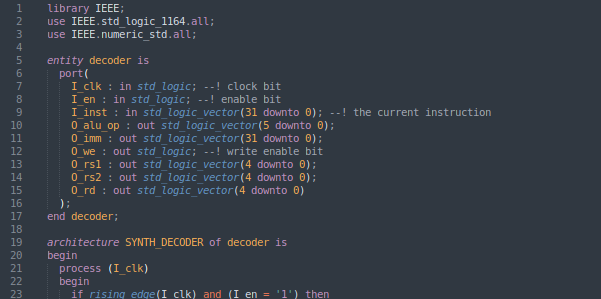
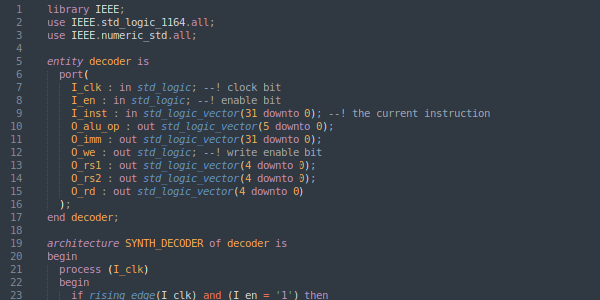
CompSci Degree Finished Update

diff --git a/index.html b/index.html
@@ -23,32 +23,32 @@
 		<h3 id="background-banner">Background Information:</h3>
 		<section id="about-me">
 			<img id="headshot" src='../src/main/resources/static/images/Kelli-Headshot.png' alt='My current headshot'/>
-			<p ID="background-info">I am a software engineer interested in optimization, communications, and making readable code. With my previous experience in academia, publishing, and community organizing I am a strong colloborator and an exceptional public speaker. When I'm not programming I like to draw, read, and play music.</p>
+			<p ID="background-info">I am a software engineer interested in backend, optimization, and making readable code. With my previous experience in academia, publishing, and community organizing I am a strong leader and an exceptional public speaker. When I'm not programming I like to draw, read, and play music.</p>
 		</section>
 		<section id="skills">
 			<div id="skill-list">
 				<button class="collapsible">Skills</button>
 				<ul class="content">
-					<li>Front-End Programming</li>
-					<li>Team Organization</li>
-					<li>Test Driven Design</li>
-					<li>Customer Communications</li>
-					<li>Spring</li>
+					<li>Linux maintenance</li>
 					<li>Git</li>
-					<li>Angular</li>
+					<li>Nginx</li>
+					<li>Nix</li>
+					<li>Test Driven Design</li>
+					<li>TTY interfaces</li>
 					<li>JSReact</li>
+					<li>Spring</li>
 				</ul>
 			</div>
 			<div id="language-list">
 				<button class="collapsible">Languages</button>
 				<ul class="content">
-					<li>C</li>
-					<li>JavaScript</li>
-					<li>PHP</li>
-					<li>VHDL</li>
-					<li>HTML5/CSS3</li>
 					<li>Python</li>
 					<li>C++</li>
+					<li>C</li>
+					<li>VHDL</li>
+					<li>JavaScript</li>
+					<li>PHP</li>
+					<li>HTML5/CSS3</li>
 					<li>Java</li>
 				</ul>
 			</div>
@@ -62,6 +62,7 @@
 				<a href="https://www.github.com/KelliMK/CRUD_Database_basic"><img class="finished-slides project-slides" src="../src/main/resources/static/images/crud_database_schema.png"></a>
 				<a href="../src/main/resources/static/screensaver.html"><img class="finished-slides project-slides" src="../src/main/resources/static/images/pico8_code.png"></a>
 				<a href="../src/main/resources/static/blob_game.html"><img class="finished-slides project-slides" src="../src/main/resources/static/images/game-screenshot.png"></a>
+				<a href="https://github.com/KelliMK/risc-v-kk"><img class="finished-slides project-slides" src="../src/main/resources/static/images/risc-v-kk.png"></a>
 			</div>
 			<div class="slide-text"><a id="slide-text-finished"></a></div>
 			<div id="finished-buttons-flexbox">
@@ -78,8 +79,8 @@
 
 		<section id="current-projects">
 			<div id="current-slides-flexbox">
+				<a href="https://github.com/KelliMK/my-nixos-server"><img class="current-slides project-slides" src="../src/main/resources/static/images/NixOS-Logo.png" ></a>
 				<a href="https://github.com/KelliMK/Nameless-Game"><img class="current-slides project-slides" src="../src/main/resources/static/images/nameless-screenshot.png" ></a>
-				<a href="https://github.com/KelliMK/risc-v-kk"><img class="current-slides project-slides" src="../src/main/resources/static/images/risc-v-kk.png"></a>
 			</div>
 			<div class="slide-text"><a id="slide-text-current"></a></div>
 			<div id="current-buttons-flexbox">

diff --git a/index.js b/index.js
@@ -42,31 +42,39 @@ function plusFinishedDivs(n) {
 }
 
 function showFinishedDescription(x, n) {
-	if (n % 4 == 1) {
+	if (n % 5 == 1) {
 		document.getElementById("slide-text-finished").innerHTML = "KKSharp";
 		if (x % 2 == 1) {
 			document.getElementById("finished-description").innerHTML = "<p class=\"description\">A programming language</p>";
 		} else if (x % 2 == 0) {
 			document.getElementById("finished-description").innerHTML = null;
 		}
-	} else if (n % 4 == 2) {
+	} else if (n % 5 == 2) {
 		document.getElementById("slide-text-finished").innerHTML = "CRUD Database Basic";
 		if (x % 2 == 1) {
 			document.getElementById("finished-description").innerHTML = "<p class=\"description\">A CRUD database built using MySQL and PHP. Cannot be instantiated in Github Pages.</p>";
 		} else if (x % 2 == 0) {
 			document.getElementById("finished-description").innerHTML = null;
 		}
-	} else if (n % 4 == 3) {
+	} else if (n % 5 == 3) {
 		document.getElementById("slide-text-finished").innerHTML = "Pico-8 Screensaver";
 		if (x % 2 == 1) {
 			document.getElementById("finished-description").innerHTML = "<p class=\"description\">A screensaver made with some trig. Built in Pico-8.</p>";
 		} else if (x % 2 == 0) {
 			document.getElementById("finished-description").innerHTML = null;
 		}
-	} else if (n % 4 == 0) {
+	} else if (n % 5 == 4) {
 		document.getElementById("slide-text-finished").innerHTML = "Simple Blob Game";
 		if (x % 2 == 1) {
 			document.getElementById("finished-description").innerHTML = "<p class=\"description\">A game where the player picks up some blobs and puts them in a fountain</p>";
+		} else if (x % 2 == 0) {
+			document.getElementById("finished-description").innerHTML = null;
+		}
+
+	} else if (n % 5 == 0) {
+		document.getElementById("slide-text-finished").innerHTML = "RISC-V-KK";
+		if (x % 2 == 1) {
+			document.getElementById("finished-description").innerHTML = "<p class=\"description\">A CPU built in VHDL that implements the RV32I ISA</p>";
 		} else if (x % 2 == 0) {
 			document.getElementById("finished-description").innerHTML = null;
 		}
@@ -104,9 +112,9 @@ function plusCurrentDivs(n) {
 
 function showCurrentDescription(x, n) {
 	if (n % 2 == 0) {
-		document.getElementById("slide-text-current").innerHTML = "RISC-V-KK";
+		document.getElementById("slide-text-current").innerHTML = "Unnamed NixOS Project";
 		if (x % 2 == 1) {
-			document.getElementById("current-description").innerHTML = "<p class=\"description\">A CPU built in VHDL that implements the RV32I ISA</p>";
+			document.getElementById("current-description").innerHTML = "<p class=\"description\">A NixOS image that aims to be an out of the box file server for old PCs</p>";
 		} else if (x % 2 == 0) {
 			document.getElementById("current-description").innerHTML = null;
 		}
